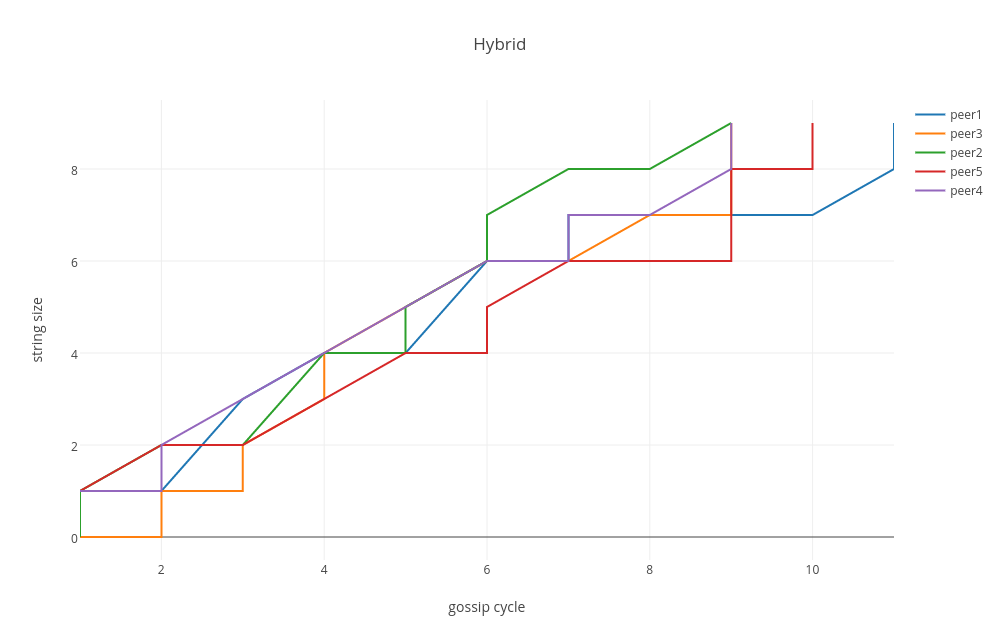
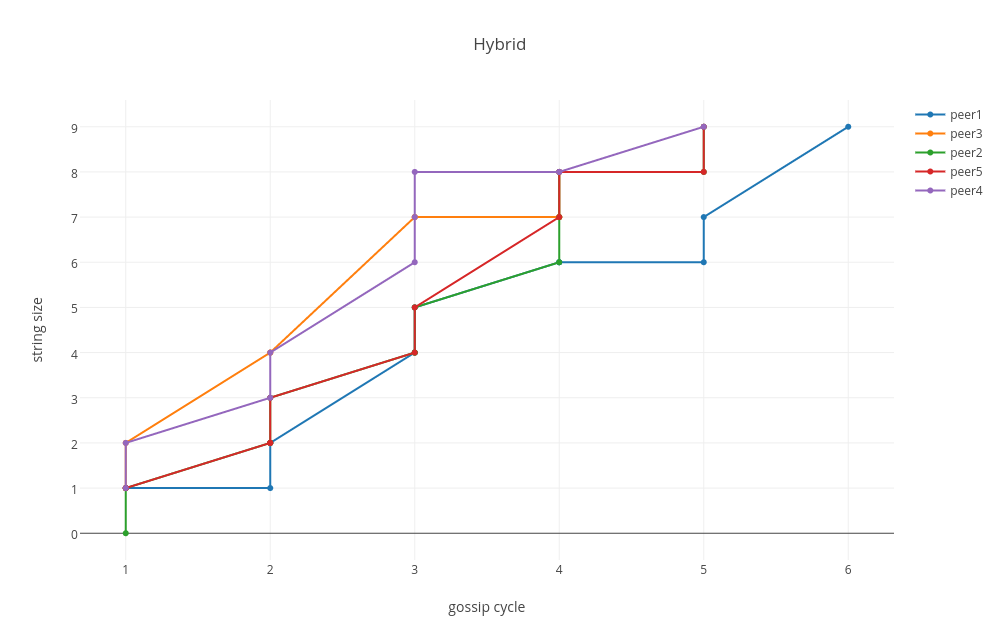
Updated plotly configuration

diff --git a/gotorrent/printer.py b/gotorrent/printer.py
@@ -27,8 +27,19 @@ class Printer(object):
             title=title,
             width=1000,
             height=640,
-            xaxis=dict(title='gossip cycle'),
-            yaxis=dict(title='string size'),
+            xaxis=dict(
+                title='gossip cycle',
+                autotick=False,
+                tick0=0,
+                dtick=1
+            )
+            ,
+            yaxis=dict(
+                title='string size',
+                autotick=False,
+                tick0=0,
+                dtick=1
+            )
         )
 
         fig = go.Figure(data=self.data.values(), layout=layout)

diff --git a/gotorrent/peer.py b/gotorrent/peer.py
@@ -37,7 +37,7 @@ class Peer(object):
         self.cycle = 0
         self.interval = interval(self.host, 3, self.proxy, 'announce_me')
         self.interval_push = interval(self.host, 1, self.proxy, 'make_push')
-        later(20, self.proxy, 'make_graph', 'Push', 'push')
+        later(22, self.proxy, 'make_graph', 'Push', 'push')
 
     def init_pull(self):
         self.cycle = 0
